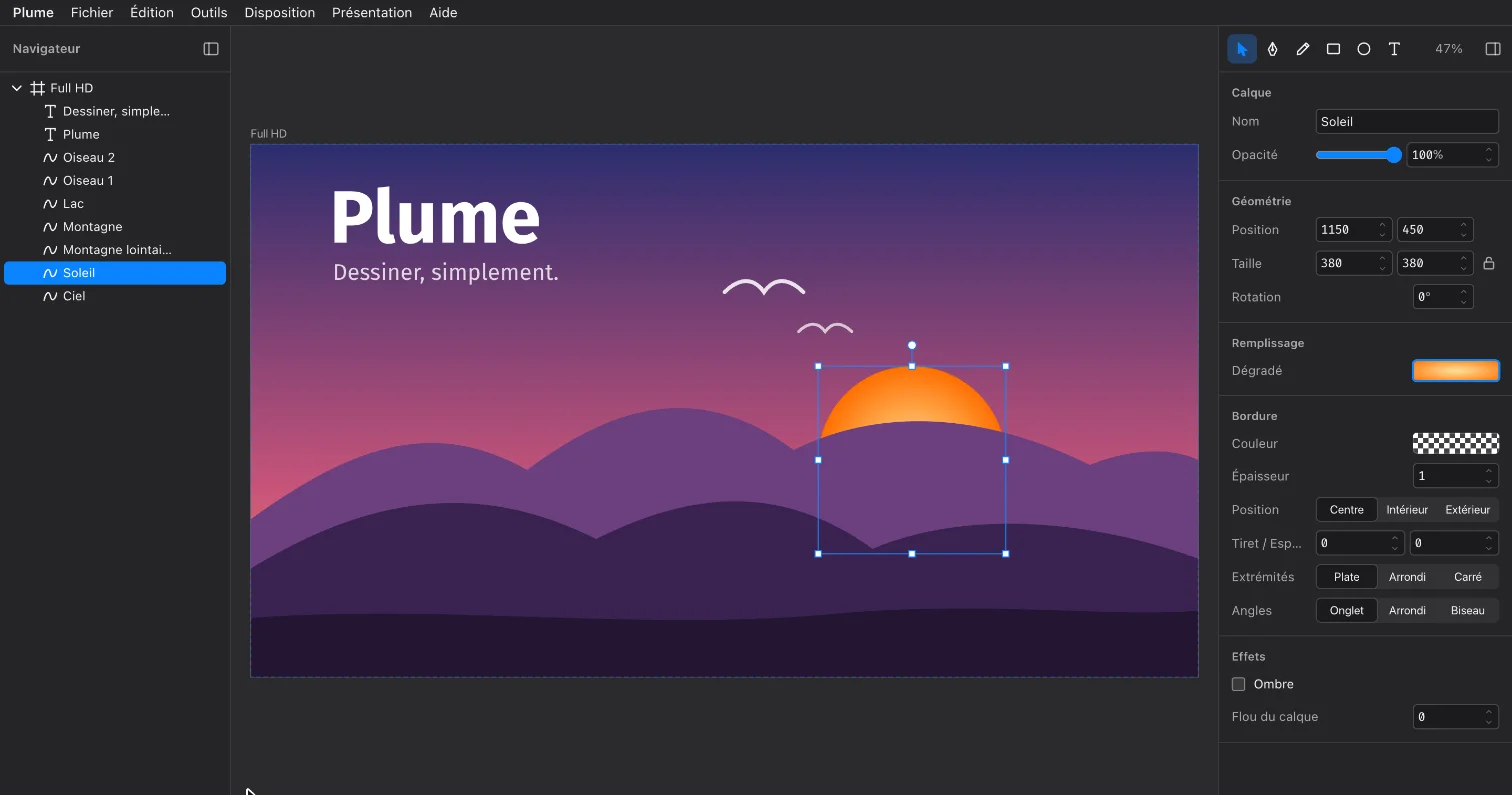
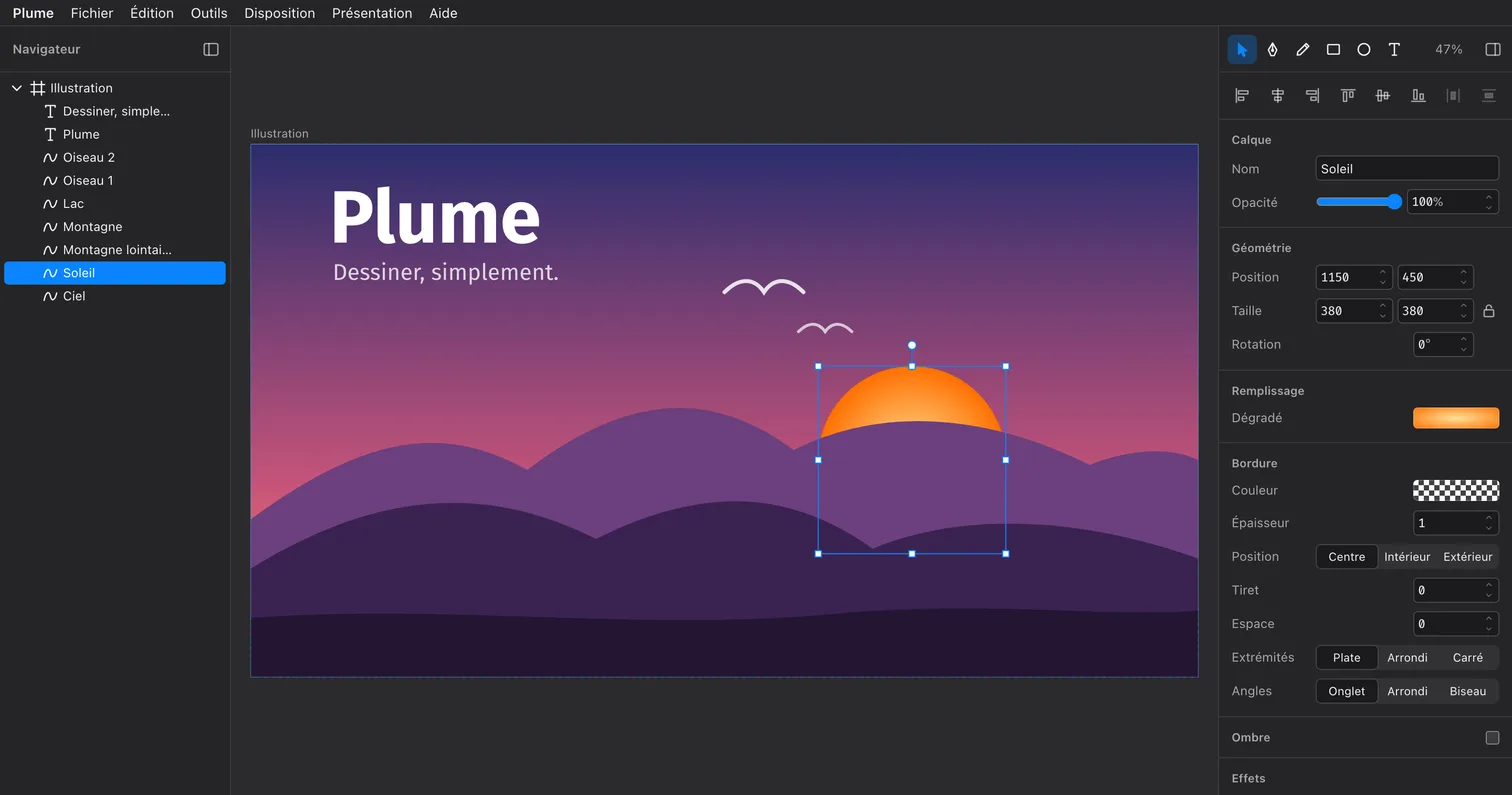
Aligner et répartir les calques (#29)
Disposition › Aligner (⌥A, ⌥H, ⌥D, ⌥W, ⌥V, ⌥S) et Répartir (⌥⇧H, ⌥⇧V),
et une rangée d'icônes en haut de l'inspecteur. Plusieurs calques
s'alignent sur leur cadre commun, un calque seul sur son groupe ou son
plan de travail ; rotation prise en compte, groupe déplacé d'un bloc,
verrouillés immobiles mais comptés, masqués ignorés. Une étape
d'annulation, puis rehome.

Raccourcis ⌥ + lettre sans ⌘ : désactivés pendant la saisie dans le menu
natif, et acceptés par runShortcut dans un navigateur hors saisie.

Documentation (référence, guide, explication, tutoriel 1) et captures
refaites avec la rangée d'icônes.

diff --git a/src/lib/app/commands.ts b/src/lib/app/commands.ts
@@ -114,6 +114,29 @@ export function menus(doc: Doc, files: Files, panels: Panels): MenuSpec[] {
         { text: L('Bring to Front'), icon: 'front', accelerator: `${FRONT}+Up`, run: () => doc.arrange('front') },
         { text: L('Send to Back'), icon: 'back', accelerator: `${FRONT}+Down`, run: () => doc.arrange('back') },
         sep,
+        // ⌥ + letter, as in Figma: disabled while typing like the tool keys (⌥ types accented characters)
+        {
+          submenu: L('Align'),
+          icon: 'align-left',
+          items: [
+            { text: L('Align Left'), icon: 'align-left', accelerator: 'Alt+A', run: () => doc.align('left') },
+            { text: L('Align Horizontal Centers'), icon: 'align-center', accelerator: 'Alt+H', run: () => doc.align('center') },
+            { text: L('Align Right'), icon: 'align-right', accelerator: 'Alt+D', run: () => doc.align('right') },
+            sep,
+            { text: L('Align Top'), icon: 'align-top', accelerator: 'Alt+W', run: () => doc.align('top') },
+            { text: L('Align Vertical Centers'), icon: 'align-middle', accelerator: 'Alt+V', run: () => doc.align('middle') },
+            { text: L('Align Bottom'), icon: 'align-bottom', accelerator: 'Alt+S', run: () => doc.align('bottom') },
+          ],
+        },
+        {
+          submenu: L('Distribute'),
+          icon: 'distribute-horizontal',
+          items: [
+            { text: L('Distribute Horizontally'), icon: 'distribute-horizontal', accelerator: 'Alt+Shift+H', run: () => doc.distribute(true) },
+            { text: L('Distribute Vertically'), icon: 'distribute-vertical', accelerator: 'Alt+Shift+V', run: () => doc.distribute(false) },
+          ],
+        },
+        sep,
         { text: L('Show/Hide'), icon: 'eye', accelerator: 'CmdOrCtrl+Shift+H', run: () => doc.toggleHidden(doc.selectedIDs) },
         { text: L('Lock/Unlock'), icon: 'lock', accelerator: 'CmdOrCtrl+Shift+L', run: () => doc.toggleLocked(doc.selectedIDs) },
       ],
@@ -165,7 +188,7 @@ const nativeText = (): Partial<Record<Native['native'], string>> => ({
   Cut: L('Cut'), Copy: L('Copy'), Paste: L('Paste'), Minimize: L('Minimize'), CloseWindow: L('Close Window'),
 });
 
-/** Items with a modifier-less accelerator (tool keys), disabled while a text field has focus so the key reaches it:
+/** Items whose accelerator has no ⌘ (tool keys, ⌥ + letter), disabled while a text field has focus so the key reaches it:
  *  a disabled item doesn't take its key equivalent (AppKit's validateMenuItem). */
 let plainKeys: (MenuItem | IconMenuItem)[] = [];
 const syncPlainKeys = () => setTimeout(() => plainKeys.forEach((i) => i.setEnabled(!isTyping(document.activeElement))));
@@ -207,7 +230,7 @@ export async function installNativeMenu(specs: MenuSpec[]) {
       }
       const opts = { text: i.text, accelerator: i.accelerator, enabled: i.enabled ?? true, action: () => void i.run() };
       const item = i.icon ? await IconMenuItem.new({ ...opts, icon: await menuIcon(i.icon) }) : await MenuItem.new(opts);
-      if (i.accelerator && !i.accelerator.includes('+')) plain.push(item);
+      if (i.accelerator && !i.accelerator.includes('CmdOrCtrl')) plain.push(item);
       return item;
     });
   const menu = await Menu.new({
@@ -226,7 +249,8 @@ export async function installNativeMenu(specs: MenuSpec[]) {
 
 /** Browser only (Tauri's native menu handles accelerators itself). Returns true when handled. */
 export function runShortcut(specs: MenuSpec[], e: KeyboardEvent): boolean {
-  if (isTauri() || !(e.metaKey || e.ctrlKey)) return false;
+  const mod = e.metaKey || e.ctrlKey;
+  if (isTauri() || !(mod || (e.altKey && !isTyping(e.target)))) return false; // ⌥ alone: never while typing
   // ⌥ changes e.key on macOS (⌥1 = ¡, ⌥U = dead key): digits, and letters with ⌥, are read from the physical key
   // ponytail: ⌥ + letter uses the QWERTY position (wrong for AZERTY's A/Q/Z/W/M); map by layout if it bites
   const key = e.code.startsWith('Digit') ? e.code.slice(5)
@@ -235,7 +259,7 @@ export function runShortcut(specs: MenuSpec[], e: KeyboardEvent): boolean {
   const all = (items: Item[]): Command[] => items.flatMap((i) => ('native' in i ? [] : 'submenu' in i ? all(i.items) : [i]));
   const cmd = specs.flatMap((m) => all(m.items)).find((c) => {
     const parts = c.accelerator?.toLowerCase().split('+');
-    return parts?.includes('cmdorctrl') && parts.at(-1) === key && parts.includes('shift') === e.shiftKey && parts.includes('alt') === e.altKey
+    return parts?.includes('cmdorctrl') === mod && parts.at(-1) === key && parts.includes('shift') === e.shiftKey && parts.includes('alt') === e.altKey
       && parts.includes('ctrl') === (e.metaKey && e.ctrlKey); // 'Ctrl+…CmdOrCtrl' = ⌃⌘ (macOS). ponytail: unreachable in a browser elsewhere (⌃ is already ⌘'s stand-in)
   });
   if (!cmd || cmd.text === L('Quit Plume')) return false;

diff --git a/src/lib/ui/Inspector.svelte b/src/lib/ui/Inspector.svelte
@@ -6,6 +6,7 @@
   import { type Columns, type Grid, defaultColumns, defaultGrid } from '$lib/model/grid';
   import { type Rect, POINT_TYPES, apply, pt, rectOf, union } from '$lib/model/geometry';
   import { pointType } from '$lib/model/point-editing';
+  import { parent } from '$lib/model/layer-tree';
   import {
     type Layer, BORDER_POSITIONS, LINE_CAPS, LINE_JOINS, bounds, center, isClosed, isContainer, localBounds, moved, refit, resized, rotated, scaled,
   } from '$lib/model/layer';
@@ -32,6 +33,11 @@
 
   // L() keys stay literal so the localization test finds them
   const COMBINE = [['union', L('Union'), 'U'], ['subtract', L('Subtract'), 'S'], ['intersect', L('Intersect'), 'I'], ['difference', L('Difference'), 'X']] as const;
+  const ALIGN = [
+    ['left', L('Align Left'), 'A'], ['center', L('Align Horizontal Centers'), 'H'], ['right', L('Align Right'), 'D'],
+    ['top', L('Align Top'), 'W'], ['middle', L('Align Vertical Centers'), 'V'], ['bottom', L('Align Bottom'), 'S'],
+  ] as const;
+  const DISTRIBUTE = [[true, 'distribute-horizontal', L('Distribute Horizontally'), 'H'], [false, 'distribute-vertical', L('Distribute Vertically'), 'V']] as const;
 
   /** Several layers: the sections they all have, values shown when they agree (`same`), edits applied to all
    *  the unlocked ones as one undo step. `l` is the first one, the reference for what is shown. */
@@ -66,6 +72,8 @@
     value: t, icon: t, title: { straight: L('Straight'), mirrored: L('Mirrored'), disconnected: L('Disconnected'), asymmetric: L('Asymmetric') }[t],
   }));
   const locked = $derived(sel.length > 0 && all((x) => doc.isLocked(x.id)));
+  /** A single layer aligns on its group or artboard: none at the top level. */
+  const alignable = $derived(!locked && (multi || (!!l && !!parent(doc.layers, l.id))));
   // frame: the layer's unrotated one; several layers: their bounds together. Once per change: costly for big groups
   const r = $derived(multi ? sel.map(bounds).reduce<Rect | null>(union, null) : l && localBounds(l));
   const b = $derived.by(() => {
@@ -184,6 +192,16 @@
       </Section>
     {/each}
   {:else if l && b}
+    <Section>
+      <div class="align" role="toolbar" aria-label={L('Align')}>
+        {#each ALIGN as [to, text, key] (to)}
+          <IconButton quiet icon="align-{to}" label="{text} (⌥{key})" disabled={!alignable} onclick={() => doc.align(to)} />
+        {/each}
+        {#each DISTRIBUTE as [horizontal, icon, text, key] (icon)}
+          <IconButton quiet {icon} label="{text} (⌥⇧{key})" disabled={locked || sel.length < 3} onclick={() => doc.distribute(horizontal)} />
+        {/each}
+      </div>
+    </Section>
     {#if multi}
       <!-- several layers: what can be done with them together, then the sections they all have -->
       <Section title={L('%d layers selected', sel.length)}>
@@ -431,6 +449,10 @@
   .combine {
     display: flex;
     gap: var(--space-1);
+  }
+  .align {
+    display: flex;
+    justify-content: space-between;
   }
   .empty {
     display: grid;

diff --git a/src/lib/document/doc.svelte.ts b/src/lib/document/doc.svelte.ts
@@ -480,6 +480,56 @@ export class Doc {
     this.rehome(ls.map((l) => l.id));
   }
 
+  // MARK: Align & distribute
+
+  /** Align (⌥A/H/D, ⌥W/V/S): several layers on the bounds of them all, a single one on its group or artboard.
+   *  Bounds are in document space (rotation included); a group moves as a block. Hidden layers are left out,
+   *  locked ones stay put but count in the bounds. */
+  align(to: Align) {
+    const ls = this.selectedLayers.filter((l) => !this.isHidden(l.id));
+    const home = ls.length === 1 ? parent(this.layers, ls[0].id) : null;
+    const ref = ls.length > 1 ? ls.map(bounds).reduce<Rect | null>(union, null) : home && bounds(home);
+    if (!ref) return;
+    const end = (r: Rect, h: boolean) => (h ? r.x + r.width : r.y + r.height);
+    this.#moveBy(ls.map((l) => {
+      const b = bounds(l);
+      switch (to) {
+        case 'left': return [l, pt(ref.x - b.x, 0)];
+        case 'center': return [l, pt(midX(ref) - midX(b), 0)];
+        case 'right': return [l, pt(end(ref, true) - end(b, true), 0)];
+        case 'top': return [l, pt(0, ref.y - b.y)];
+        case 'middle': return [l, pt(0, midY(ref) - midY(b))];
+        case 'bottom': return [l, pt(0, end(ref, false) - end(b, false))];
+      }
+    }));
+  }
+
+  /** Distribute (⌥⇧H, ⌥⇧V): equal gaps between 3 layers or more, the outermost ones staying put.
+   *  ponytail: locked layers keep their place, so one in the middle leaves the gaps around it uneven. */
+  distribute(horizontal: boolean) {
+    const ls = this.selectedLayers.filter((l) => !this.isHidden(l.id));
+    if (ls.length < 3) return;
+    const [x, w] = horizontal ? (['x', 'width'] as const) : (['y', 'height'] as const);
+    const items = ls.map((l) => ({ l, b: bounds(l) })).sort((p, q) => p.b[x] - q.b[x]);
+    const start = items[0].b[x], span = Math.max(...items.map((i) => i.b[x] + i.b[w])) - start;
+    const gap = (span - items.reduce((s, i) => s + i.b[w], 0)) / (items.length - 1);
+    let at = start;
+    this.#moveBy(items.map(({ l, b }) => {
+      const d = at - b[x];
+      at += b[w] + gap;
+      return [l, horizontal ? pt(d, 0) : pt(0, d)];
+    }));
+  }
+
+  /** One undo step moving each layer by its own offset; locked layers stay. Moved layers may change artboard. */
+  #moveBy(moves: [Layer, Pt][]) {
+    const ms = moves.filter(([l, d]) => !this.isLocked(l.id) && (d.x || d.y));
+    if (!ms.length) return;
+    this.checkpoint();
+    for (const [l, d] of ms) this.set(l.id, moved($state.snapshot(l) as Layer, d));
+    this.rehome(ms.map(([l]) => l.id));
+  }
+
   // MARK: Groups
 
   /** Selected layers that share one parent, in paint order; null if they don't. */
@@ -606,6 +656,8 @@ export class Doc {
     this.pan = pt(w / 2 - midX(b) * this.zoom, h / 2 - midY(b) * this.zoom);
   }
 }
+
+export type Align = 'left' | 'center' | 'right' | 'top' | 'middle' | 'bottom';
 
 /** Undo history size, in snapshot characters (≈ bytes): about a hundred steps of a 2 MB document. */
 const UNDO_BUDGET = 200_000_000;

diff --git a/tests/align.test.ts b/tests/align.test.ts
@@ -1,0 +1,66 @@
+import { expect, test } from 'vitest';
+import { Doc } from '$lib/document/doc.svelte';
+import { pt } from '$lib/model/geometry';
+import { type Layer, bounds, newArtboard } from '$lib/model/layer';
+import { rect } from './helpers';
+
+const docWith = (...layers: Layer[]) => {
+  const d = new Doc();
+  d.layers = layers;
+  d.selectedIDs = new Set(layers.map((l) => l.id));
+  return d;
+};
+const box = (d: Doc, name: string) => bounds(d.layers.find((l) => l.name === name)!);
+
+test('align left: on the leftmost edge, one undo step', () => {
+  const d = docWith(rect(10, 0, 20, 10, 'a'), rect(40, 30, 60, 50, 'b'));
+  d.align('left');
+  expect([box(d, 'a').x, box(d, 'b').x]).toEqual([10, 10]);
+  expect(box(d, 'b').y).toBe(30);
+  d.undo();
+  expect(box(d, 'b').x).toBe(40);
+});
+
+test('align center and bottom: on the selection bounds', () => {
+  const d = docWith(rect(0, 0, 10, 10, 'a'), rect(90, 40, 100, 100, 'b'));
+  d.align('center');
+  expect([box(d, 'a').x, box(d, 'b').x]).toEqual([45, 45]);
+  d.align('bottom');
+  expect([box(d, 'a').y, box(d, 'b').y]).toEqual([90, 40]);
+});
+
+test('a single layer aligns on its artboard; at the top level nothing moves', () => {
+  const a = newArtboard('A', [pt(0, 0), pt(200, 100)]), r = rect(20, 20, 40, 40, 'r');
+  a.children.push(r);
+  const d = docWith(a);
+  d.selection = r.id;
+  d.align('right');
+  d.align('middle');
+  expect(bounds(d.get(r.id)!)).toEqual({ x: 180, y: 40, width: 20, height: 20 });
+  const top = docWith(rect(5, 5, 10, 10, 'alone'));
+  top.align('left');
+  expect(top.canUndo).toBe(false);
+});
+
+test('a rotated layer aligns by its rotated bounds', () => {
+  const t = { ...rect(0, 0, 20, 20, 't'), rotation: Math.PI / 4 };
+  const d = docWith(rect(-50, 0, -40, 10, 'a'), t);
+  d.align('left');
+  expect(box(d, 't').x).toBeCloseTo(-50);
+});
+
+test('locked layers stay but count in the bounds; hidden ones are left out', () => {
+  const lock = { ...rect(0, 0, 10, 10, 'lock'), locked: true }, hid = { ...rect(-100, 0, -90, 10, 'hid'), hidden: true };
+  const d = docWith(lock, rect(50, 0, 60, 10, 'b'), hid);
+  d.align('left');
+  expect([box(d, 'lock').x, box(d, 'b').x, box(d, 'hid').x]).toEqual([0, 0, -100]);
+});
+
+test('distribute: equal gaps, the outermost layers stay put', () => {
+  const d = docWith(rect(0, 0, 10, 10, 'a'), rect(70, 0, 100, 10, 'c'), rect(15, 0, 35, 10, 'b'));
+  d.distribute(true);
+  expect([box(d, 'a').x, box(d, 'b').x, box(d, 'c').x]).toEqual([0, 30, 70]);
+  const two = docWith(rect(0, 0, 10, 10, 'a'), rect(50, 0, 60, 10, 'b'));
+  two.distribute(true);
+  expect(two.canUndo).toBe(false);
+});

diff --git a/src/lib/ui/kit/Icon.svelte b/src/lib/ui/kit/Icon.svelte
@@ -37,6 +37,15 @@
     backward: '<path d="M2.5 2.5h7v4h-3v3h-4Z" fill="currentColor"/><rect x="6.5" y="6.5" width="7" height="7"/>',
     front: '<rect x="1.5" y="1.5" width="6" height="6"/><rect x="4.5" y="4.5" width="6" height="6"/><rect x="8" y="8" width="6.5" height="6.5" fill="currentColor"/>',
     back: '<path d="M1.5 1.5h6v3h-3v3h-3Z" fill="currentColor"/><rect x="4.5" y="4.5" width="6" height="6"/><rect x="8" y="8" width="6.5" height="6.5"/>',
+    // Align: two bars against the reference line; Distribute: a layer centered between two
+    'align-left': '<path d="M2.5 1.5v13"/><rect x="4.5" y="3.5" width="9" height="3"/><rect x="4.5" y="9.5" width="5" height="3"/>',
+    'align-center': '<path d="M8 1.5v13"/><rect x="3" y="3.5" width="10" height="3"/><rect x="5" y="9.5" width="6" height="3"/>',
+    'align-right': '<path d="M13.5 1.5v13"/><rect x="2.5" y="3.5" width="9" height="3"/><rect x="6.5" y="9.5" width="5" height="3"/>',
+    'align-top': '<path d="M1.5 2.5h13"/><rect x="3.5" y="4.5" width="3" height="9"/><rect x="9.5" y="4.5" width="3" height="5"/>',
+    'align-middle': '<path d="M1.5 8h13"/><rect x="3.5" y="3" width="3" height="10"/><rect x="9.5" y="5" width="3" height="6"/>',
+    'align-bottom': '<path d="M1.5 13.5h13"/><rect x="3.5" y="2.5" width="3" height="9"/><rect x="9.5" y="6.5" width="3" height="5"/>',
+    'distribute-horizontal': '<path d="M2.5 2v12M13.5 2v12"/><rect x="6" y="4.5" width="4" height="7" fill="currentColor"/>',
+    'distribute-vertical': '<path d="M2 2.5h12M2 13.5h12"/><rect x="4.5" y="6" width="7" height="4" fill="currentColor"/>',
     'sidebar-left': '<rect x="1.5" y="2.5" width="13" height="11" rx="1.5"/><path d="M6 2.5v11"/>',
     'sidebar-right': '<rect x="1.5" y="2.5" width="13" height="11" rx="1.5"/><path d="M10 2.5v11"/>',
   };

diff --git a/src/routes/kit/+page.svelte b/src/routes/kit/+page.svelte
@@ -20,7 +20,7 @@
   import Toggle from '$lib/ui/kit/Toggle.svelte';
 
   /** Dev-only gallery: every primitive in every state, light and dark side by side, to spot drift. */
-  const icons = ['select', 'pen', 'pencil', 'rect', 'ellipse', 'path', 'group', 'artboard', 'eye', 'eye-off', 'lock', 'lock-open', 'plus', 'corners', 'rotate', 'chevron', 'union', 'subtract', 'intersect', 'difference', 'sidebar-left', 'sidebar-right'] as const;
+  const icons = ['select', 'pen', 'pencil', 'rect', 'ellipse', 'path', 'group', 'artboard', 'eye', 'eye-off', 'lock', 'lock-open', 'plus', 'corners', 'rotate', 'chevron', 'union', 'subtract', 'intersect', 'difference', 'align-left', 'align-center', 'align-right', 'align-top', 'align-middle', 'align-bottom', 'distribute-horizontal', 'distribute-vertical', 'sidebar-left', 'sidebar-right'] as const;
   let dialog = $state(false);
   let renaming = $state(false), pick = $state(''), font = $state('Fira Sans'), n = $state(42), text = $state('Rectangle 1'), seg = $state<'a' | 'b' | 'c'>('a'), point = $state<PointType>('straight'), on = $state(true), v = $state(0.6);
   let color = $state<RGBA>({ r: 0.2, g: 0.5, b: 0.9, a: 0.8 }), palette = $state<RGBA[]>([BLACK, GRAY]);

diff --git a/docs/guides/organiser-les-calques.md b/docs/guides/organiser-les-calques.md
@@ -1,6 +1,6 @@
 # Organiser les calques
 
-Sélectionner, déplacer, grouper, ordonner, renommer, masquer et verrouiller les calques d'un document.
+Sélectionner, déplacer, aligner, répartir, grouper, ordonner, renommer, masquer et verrouiller les calques d'un document.
 
 ## Sélectionner
 
@@ -26,6 +26,20 @@ Sélectionner, déplacer, grouper, ordonner, renommer, masquer et verrouiller le
 - **Valeurs exactes** : section **Géométrie** de l'inspecteur (Position, Taille, Rotation, et Rayon des coins
   pour un rectangle, un même rayon ou un par coin). Un rectangle étiré garde ses coins ; redimensionné proportionnellement, ses coins suivent.
 - **Retourner** : **Outils › Retourner horizontalement / verticalement**.
+
+## Aligner et répartir
+
+Rangée d'icônes en haut de l'inspecteur, ou **Disposition › Aligner** et **Disposition › Répartir**.
+
+- **Aligner** : à gauche (⌥A), au centre (⌥H), à droite (⌥D), en haut (⌥W), au milieu (⌥V), en bas (⌥S).
+  Plusieurs calques s'alignent sur le cadre qui les englobe ; un calque seul, sur son groupe ou son plan de travail.
+  Les plans de travail sélectionnés s'alignent entre eux.
+- **Répartir** horizontalement (⌥⇧H) ou verticalement (⌥⇧V) : à partir de 3 calques, les deux extrêmes restent
+  en place et les autres se placent pour que les espaces entre calques soient égaux.
+
+Le cadre d'un calque pivoté est celui qui l'englobe une fois tourné ; un groupe bouge d'un bloc.
+Les calques verrouillés ne bougent pas mais comptent dans le cadre ; les calques masqués sont ignorés.
+Un calque qui sort de son plan de travail ou arrive sur un autre change de plan de travail, comme après un déplacement.
 
 ## Grouper et dégrouper
 

diff --git a/docs/explications/calques-groupes-plans.md b/docs/explications/calques-groupes-plans.md
@@ -48,6 +48,19 @@ Sur le canevas, un plan de travail est transparent aux clics : on travaille sur 
 sélectionne par son nom. Le redimensionner ne change que son cadre, jamais ce qu'il contient : on recadre
 une page, on n'étire pas un dessin.
 
+## Aligner : sur quoi ?
+
+Aligner a besoin d'une référence. Avec plusieurs calques, c'est le cadre qui les englobe tous : aligner à gauche
+amène chacun au bord gauche du calque le plus à gauche, qui ne bouge donc pas. Un calque seul n'a rien avec quoi
+s'aligner : il prend son parent, le groupe ou le plan de travail qui le contient. Au premier niveau, hors de tout
+plan de travail, il n'a pas de référence et la commande ne fait rien.
+
+Le cadre utilisé est celui que l'on voit sur la page : pour un calque pivoté, le rectangle droit qui l'englobe une
+fois tourné, pas sa forme droite d'origine. Un groupe, n'ayant pas de forme à lui, s'aligne par le cadre de son
+contenu et bouge d'un bloc. Un calque verrouillé ne bouge pas, mais sa place compte : c'est un moyen simple
+d'aligner les autres sur lui. Après l'alignement, chaque calque déplacé suit la règle du centre ci-dessus et peut
+changer de plan de travail.
+
 ## Masqué, verrouillé
 
 Masquer et verrouiller se transmettent du groupe à ses calques, sans effacer leur propre réglage. Masquer

diff --git a/docs/README.md b/docs/README.md
@@ -14,13 +14,13 @@ Quatre parties, chacune pour un besoin différent.
 
 À suivre dans l'ordre, du début à la fin.
 
-1. [Votre première illustration](tutoriels/01-premiere-illustration.md) : formes, couleurs, texte, groupe, export PNG.
+1. [Votre première illustration](tutoriels/01-premiere-illustration.md) : formes, couleurs, texte, alignement, groupe, export PNG.
 2. [Dessiner à la plume](tutoriels/02-dessiner-a-la-plume.md) : points d'angle, courbes, retouche des points.
 
 ## Guides pratiques
 
 - [Installer Plume](guides/installer.md) : winget, Scoop, Homebrew, APT (Synaptic), Snap, DNF
-- [Organiser les calques](guides/organiser-les-calques.md) : sélectionner, grouper, ordonner, masquer, verrouiller.
+- [Organiser les calques](guides/organiser-les-calques.md) : sélectionner, aligner, répartir, grouper, ordonner, masquer, verrouiller.
 - [Travailler avec des plans de travail](guides/plans-de-travail.md)
 - [Modifier les points d'un tracé](guides/editer-des-points.md)
 - [Combiner des formes](guides/combiner-des-formes.md) et vectoriser un contour

diff --git a/docs/reference/raccourcis.md b/docs/reference/raccourcis.md
@@ -46,7 +46,14 @@ Actifs partout, sauf pendant la saisie dans un champ. Mêmes touches sur macOS e
 | Vectoriser le contour | ⌥⌘O | Ctrl+Alt+O |
 | Avancer / Reculer | ⌥⌘↑ / ⌥⌘↓ | Ctrl+Alt+↑ / Ctrl+Alt+↓ |
 | Premier plan / Arrière-plan | ⌃⌥⌘↑ / ⌃⌥⌘↓ | Ctrl+Maj+Alt+↑ / Ctrl+Maj+Alt+↓ |
+| Aligner à gauche / au centre / à droite | ⌥A / ⌥H / ⌥D | Alt+A / Alt+H / Alt+D |
+| Aligner en haut / au milieu / en bas | ⌥W / ⌥V / ⌥S | Alt+W / Alt+V / Alt+S |
+| Répartir horizontalement / verticalement | ⌥⇧H / ⌥⇧V | Alt+Maj+H / Alt+Maj+V |
 | Masquer / Verrouiller | ⇧⌘H / ⇧⌘L | Ctrl+Maj+H / Ctrl+Maj+L |
+
+Les raccourcis d'alignement (⌥ + lettre, sans ⌘) sont inactifs pendant la saisie dans un champ : ⌥ y tape un caractère accentué.
+Dans la version web, les raccourcis ⌥ + lettre suivent la position des touches d'un clavier QWERTY : sur un clavier
+AZERTY, Aligner à gauche est ⌥Q et Aligner en haut ⌥Z.
 
 ## Vue
 

diff --git a/README.md b/README.md
@@ -10,6 +10,8 @@ TypeScript (SvelteKit, Svelte 5) et le rendu en SVG. La même interface tourne a
 - **Édition de points** : double-clic ou Retour sur un tracé ; poignées miroir, ⌥ pour les rendre indépendantes.
 - **Calques** : groupes, plans de travail, masquer / verrouiller, renommer, glisser-déposer dans la liste,
   ordre d'empilement (avancer, reculer, premier plan, arrière-plan).
+- **Aligner et répartir** : à gauche, au centre, à droite, en haut, au milieu, en bas (⌥A, ⌥H, ⌥D, ⌥W, ⌥V, ⌥S),
+  espacement égal horizontal ou vertical (⌥⇧H, ⌥⇧V) ; menu Disposition ou haut de l'inspecteur.
 - **Combiner** des formes : union, soustraction, intersection, différence (courbes conservées).
 - **Vectoriser le contour** : une bordure devient une forme pleine.
 - **Retourner** horizontalement ou verticalement (menu Outils).
